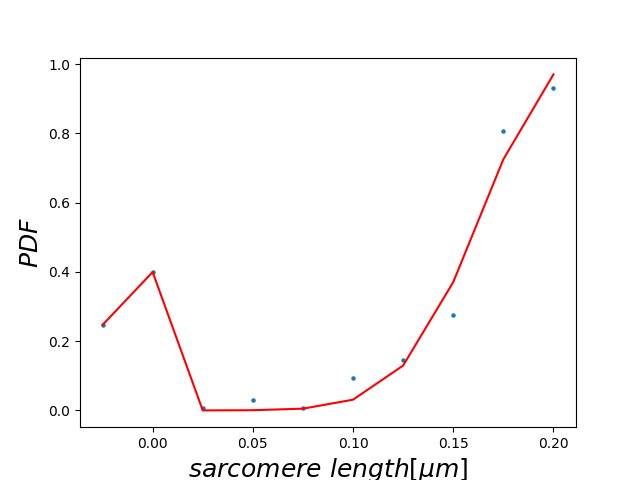
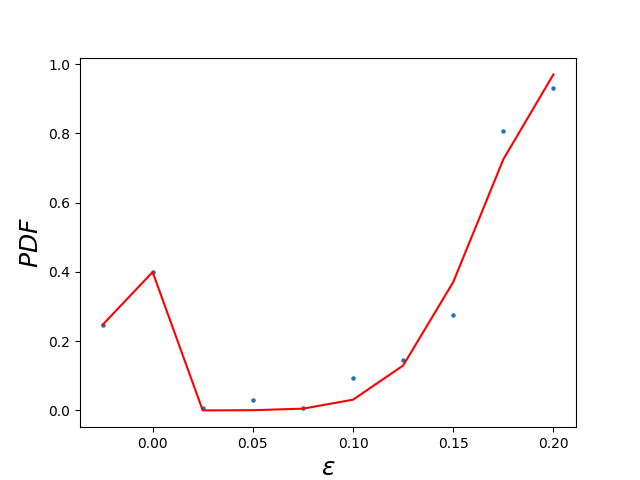
0604

Changed region(s): [[0.2812, 0.9375, 0.75, 1.0]]

diff --git a/Fac_Fmy/var_1_n-1/experiment/strain_model/range1_fitlnp.py b/Fac_Fmy/var_1_n-1/experiment/strain_model/range1_fitlnp.py
@@ -78,26 +78,58 @@ for num in range(50, 100):
     pp.append(pp_i)
     step+=1
 
-x_1 = np.linspace(-0.8,0.8,10)
-x_2 = np.linspace(0.1,0.2,10)
+
+pp = np.array(pp)
+
+x_1 = x_new[x_new>0.1]
+pp_1 = pp[x_new>0.1]
+
+x_2 = x_new[(x_new>-0.1) & (x_new<0.1)]
+pp_2 = pp[(x_new>-0.1) & (x_new<0.1)]
+
+x_3 = x_new[x_new<-0.1]
+pp_3 = pp[x_new<-0.1]
 
 K=1.38e-23
 T=309.5
 def fit(x,F,a):
     return F*x/(K*T)+a
 
-param_1, cov_1 = curve_fit(fit, x_new, pp)
+param_1, cov_1 = curve_fit(fit, x_1, pp_1)
 print(param_1)
 
+param_2, cov_2 = curve_fit(fit, x_2, pp_2)
+print(param_2)
+
+param_3, cov_3 = curve_fit(fit, x_3, pp_3)
+print(param_3)
+
+pp1_fit=[]
+for num in range(len(x_1)):
+    pp1_fit.append(param_1[0]*x_1[num]/(K*T)+param_1[1])
+array_pp1_fit = np.array(pp1_fit)
+
+pp2_fit=[]
+for num in range(len(x_2)):
+    pp2_fit.append(param_2[0]*x_2[num]/(K*T)+param_2[1])
+array_pp2_fit = np.array(pp2_fit)
+
+pp3_fit=[]
+for num in range(len(x_3)):
+    pp3_fit.append(param_3[0]*x_3[num]/(K*T)+param_3[1])
+array_pp3_fit = np.array(pp3_fit)
 #param_2, cov_2 = curve_fit(fit, x_2, pp)
 #print(param_2)
 
 fig, ax = plt.subplots(1, 1)
 #ax.scatter(x, y, s=5)
-#ax.plot(x, out.best_fit, 'r-')
-ax.plot(x_new, pp, 'o', c='black', label = r'$$')
+ax.plot(x_new, pp, 'o', markersize=3, c='black', label = r'$data$')
+ax.plot(x_1, array_pp1_fit, '-', markersize=100, c='red', label = r'$F_{large}$')
+ax.plot(x_2, array_pp2_fit, '-', markersize=100, c='blue', label = r'$F_{small}$')
+ax.plot(x_3, array_pp3_fit, '-', markersize=100, c='red')
 #ax.bar(x, y, width=0.025, edgecolor="#000000")
 plt.xlabel(r"$\varepsilon$", fontsize = 18)
 plt.ylabel(r"$ln[P( \Delta x) / P(- \Delta x)]$", fontsize = 18)
-fig.savefig("lnp_fitcurve_strainhist_round2_bin10")
+fig.savefig("fitcurve_lnp_strainhist_round2_bin10")
+ax.legend()
 plt.show()

diff --git a/Fac_Fmy/var_1_n-1/experiment/strain_model/range_fitlnp.py b/Fac_Fmy/var_1_n-1/experiment/strain_model/range_fitlnp.py
@@ -78,15 +78,15 @@ for num in range(50, 100):
     pp.append(pp_i)
     step+=1
 
-x_1 = np.linspace(-0.8,0.8,10)
-x_2 = np.linspace(0.1,0.2,10)
+x_1 = np.linspace(x_new[75],x_new[99],26)
+#x_2 = np.linspace(0.1,0.2,10)
 
 K=1.38e-23
 T=309.5
 def fit(x,F,a):
     return F*x/(K*T)+a
 
-param_1, cov_1 = curve_fit(fit, x_new, pp)
+param_1, cov_1 = curve_fit(fit, x_1, pp)
 print(param_1)
 
 #param_2, cov_2 = curve_fit(fit, x_2, pp)

diff --git a/Fac_Fmy/var_1_n-1/experiment/strain_model/fitcurve_histgram.py b/Fac_Fmy/var_1_n-1/experiment/strain_model/fitcurve_histgram.py
@@ -67,7 +67,7 @@ ax.scatter(x, y, s=5, label = r'data')
 ax.plot(x_new, smmoth_gauss, "-", c='red', label = r'gaussian fitting')
 #ax.bar(x, y, width=0.025, edgecolor="#000000")
 ax.legend()
-plt.xlabel(r"$sarcomere\ length[\mu m]$", fontsize = 18)
+plt.xlabel(r"$\varepsilon$", fontsize = 18)
 plt.ylabel(r"$PDF$", fontsize = 18)
 fig.savefig("fitcurve_strainhist_round2_bin10")
 plt.show()

diff --git a/Fac_Fmy/var_1_n-1/experiment/strain_model/fit_histgram.py b/Fac_Fmy/var_1_n-1/experiment/strain_model/fit_histgram.py
@@ -55,7 +55,7 @@ fig, ax = plt.subplots(1, 1)
 ax.scatter(x, y, s=5)
 ax.plot(x, out.best_fit, 'r-')
 #ax.bar(x, y, width=0.025, edgecolor="#000000")
-plt.xlabel(r"$sarcomere\ length[\mu m]$", fontsize = 18)
+plt.xlabel(r"$\varepsilon$", fontsize = 18)
 plt.ylabel(r"$PDF$", fontsize = 18)
 fig.savefig("fit_strainhist_round2_bin10")
 plt.show()

diff --git a/Fac_Fmy/var_1_n-1/experiment/strain_model/histgraph.py b/Fac_Fmy/var_1_n-1/experiment/strain_model/histgraph.py
@@ -28,7 +28,7 @@ for i in range(2, 10):
 
 fig, ax = plt.subplots(1, 1)
 ax.bar(bb, aa, width=0.025, edgecolor="#000000")
-plt.xlabel(r"$sarcomere\ length[\mu m]$", fontsize = 18)
+plt.xlabel(r"$\varepsilon$", fontsize = 18)
 plt.ylabel(r"$PDF$", fontsize = 18)
 fig.savefig("strainhist_round2_bin10")
 plt.show()
